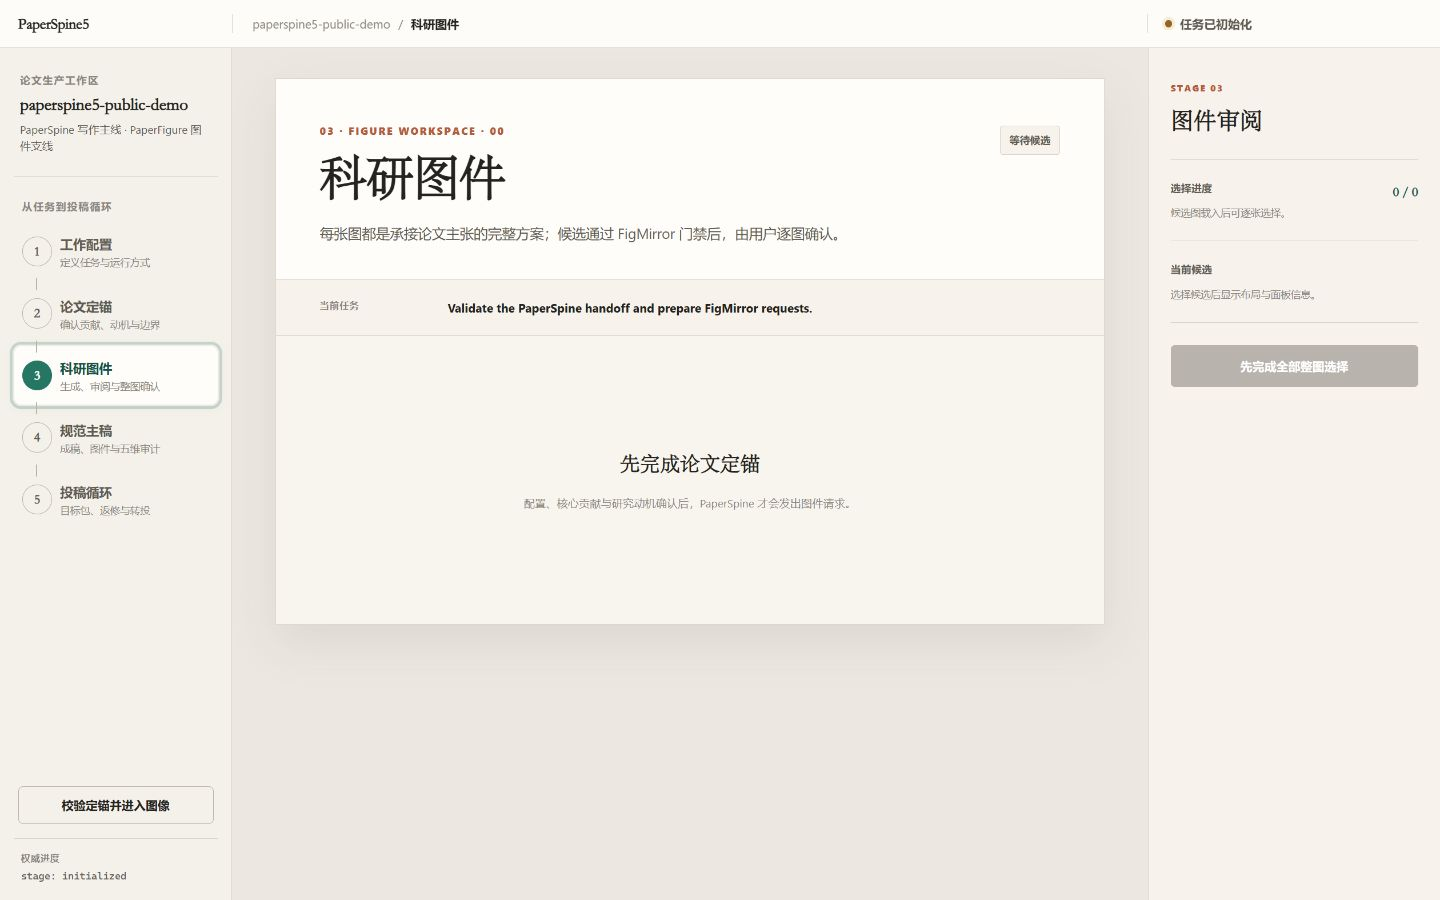
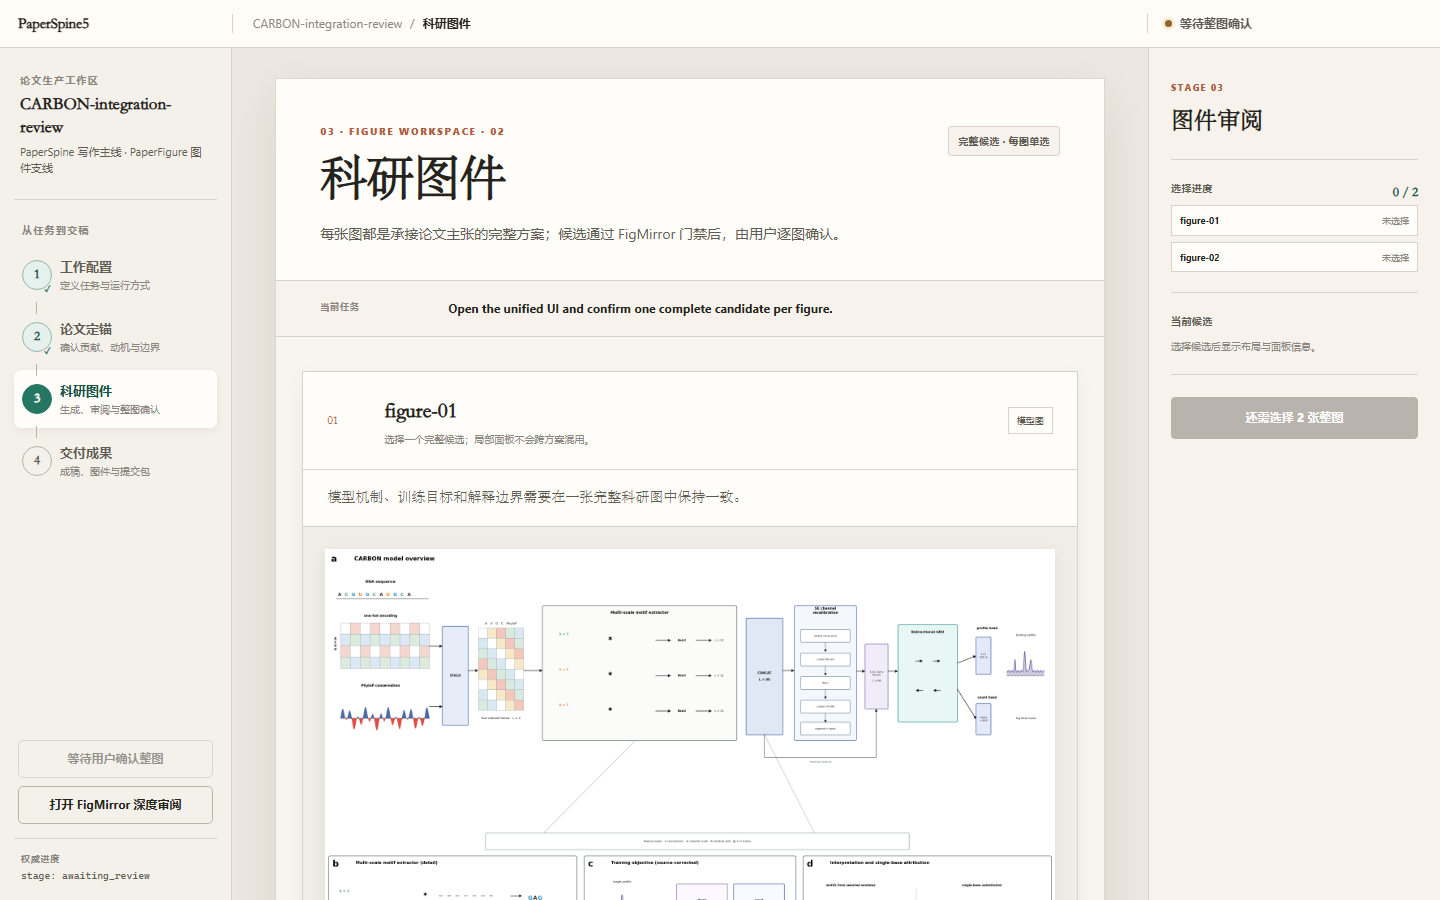
Show a real figure-stage run instead of the expired blank demo
The workspace screenshot on the release page came from the empty paperspine5-public-demo task (waiting candidates, stage initialized). Replace it with an actual CARBON-integration-review figure-stage run: five-stage rail, a complete candidate model-overview figure, and per-figure confirmation still pending. Captions and alt text now describe the figure-review stage instead of a blank demo.

diff --git a/website/en/index.html b/website/en/index.html
@@ -58,7 +58,7 @@
       </article>
     </section>
 
-    <section class="premise paper-section product-walkthrough" id="workspace"><div class="section-label reveal"><span>02</span><p>The workspace</p></div><div class="premise-copy reveal"><h2>One task.<br><em>Five stages.</em></h2><p>The page shows how far you have got and what is still waiting on you. The real state lives in project files, so a new session, a revision, or a transfer to another journal picks up where you left off instead of starting over.</p></div><aside class="premise-note reveal"><span>Who does what</span><p>The agent moves the process along. You confirm the contribution, the motivation, the complete figures, the author declarations, and anything that goes outside. The page only displays; it does not replace the project files.</p></aside><figure class="workspace-preview reveal" data-tilt><figcaption><span>Packaged candidate / real UI</span><span>Five stages · blank demo · no paper data</span></figcaption><img src="../assets/workspace-ui-public.png" alt="The packaged PaperSpine5 scientific-figure workspace showing five workflow stages and a blank demo waiting for the research direction" width="1440" height="900"></figure></section>
+    <section class="premise paper-section product-walkthrough" id="workspace"><div class="section-label reveal"><span>02</span><p>The workspace</p></div><div class="premise-copy reveal"><h2>One task.<br><em>Five stages.</em></h2><p>The page shows how far you have got and what is still waiting on you. The real state lives in project files, so a new session, a revision, or a transfer to another journal picks up where you left off instead of starting over.</p></div><aside class="premise-note reveal"><span>Who does what</span><p>The agent moves the process along. You confirm the contribution, the motivation, the complete figures, the author declarations, and anything that goes outside. The page only displays; it does not replace the project files.</p></aside><figure class="workspace-preview reveal" data-tilt><figcaption><span>Real UI / figure review stage</span><span>Awaiting figure confirmation · two per-figure candidates</span></figcaption><img src="../assets/workspace-ui-public.png" alt="A real PaperSpine5 figure-review workspace: five-stage navigation on the left, a candidate model-overview figure in the middle, and figure-01 and figure-02 waiting to be confirmed one at a time on the right." width="1440" height="900"></figure></section>
 
     <section class="why-section" id="why" aria-labelledby="why-title"><div class="why-head reveal"><p class="eyebrow">03 / Why PaperSpine5?</p><h2 id="why-title">A paper is not a one-shot generation.</h2><p>The hard part is not writing one more paragraph. It is keeping claims, evidence, figures, author decisions, and submission requirements consistent through round after round of revision.</p></div><div class="principle-grid"><article class="reveal"><span>01 / Files first</span><h3>Look at the files, then talk conclusions</h3><p>Configuration, evidence, figure decisions, the manuscript, and delivery checklists each have a clear home. The page is a working surface; the memory does not live only in a chat.</p></article><article class="reveal"><span>02 / You confirm</span><h3>Ask first before anything goes out</h3><p>Contribution, motivation, complete figures, author declarations, and submission authorization are never treated as approved just because an agent can do them.</p></article><article class="reveal"><span>03 / Pick up again</span><h3>Restore before redoing</h3><p>All five stages share one project state. A new session, a revision, or a transfer never has to guess what was already decided.</p></article></div></section>
 

diff --git a/website/index.html b/website/index.html
@@ -91,8 +91,8 @@
       <div class="premise-copy reveal"><h2>一个任务，<br><em>五个阶段。</em></h2><p>网页上能看到当前做到哪一步、还等你确认什么。真正的状态存在项目文件里，所以换会话、返修或转投都能接着做，不用从头再说一遍。</p></div>
       <aside class="premise-note reveal"><span>分工</span><p>Agent 负责推进流程；论文的贡献、动机、整图、作者声明和对外操作由你确认。网页只负责显示，不替代项目文件。</p></aside>
       <figure class="workspace-preview reveal" data-tilt>
-        <figcaption><span>打包候选版 / 真实界面</span><span>五个阶段 · 空白演示任务 · 不含论文数据</span></figcaption>
-        <img src="assets/workspace-ui-public.png" alt="PaperSpine5 打包候选的科研图件工作区，显示五阶段导航和等待论文定位的空白演示状态" width="1440" height="900">
+        <figcaption><span>真实运行界面 / 科研图件阶段</span><span>等待整图确认 · 两张候选逐图选择</span></figcaption>
+        <img src="assets/workspace-ui-public.png" alt="PaperSpine5 科研图件阶段的真实运行界面：左侧五阶段导航，中间显示候选模型总览整图，右侧等待逐图确认 figure-01 与 figure-02。" width="1440" height="900">
       </figure>
     </section>
 
